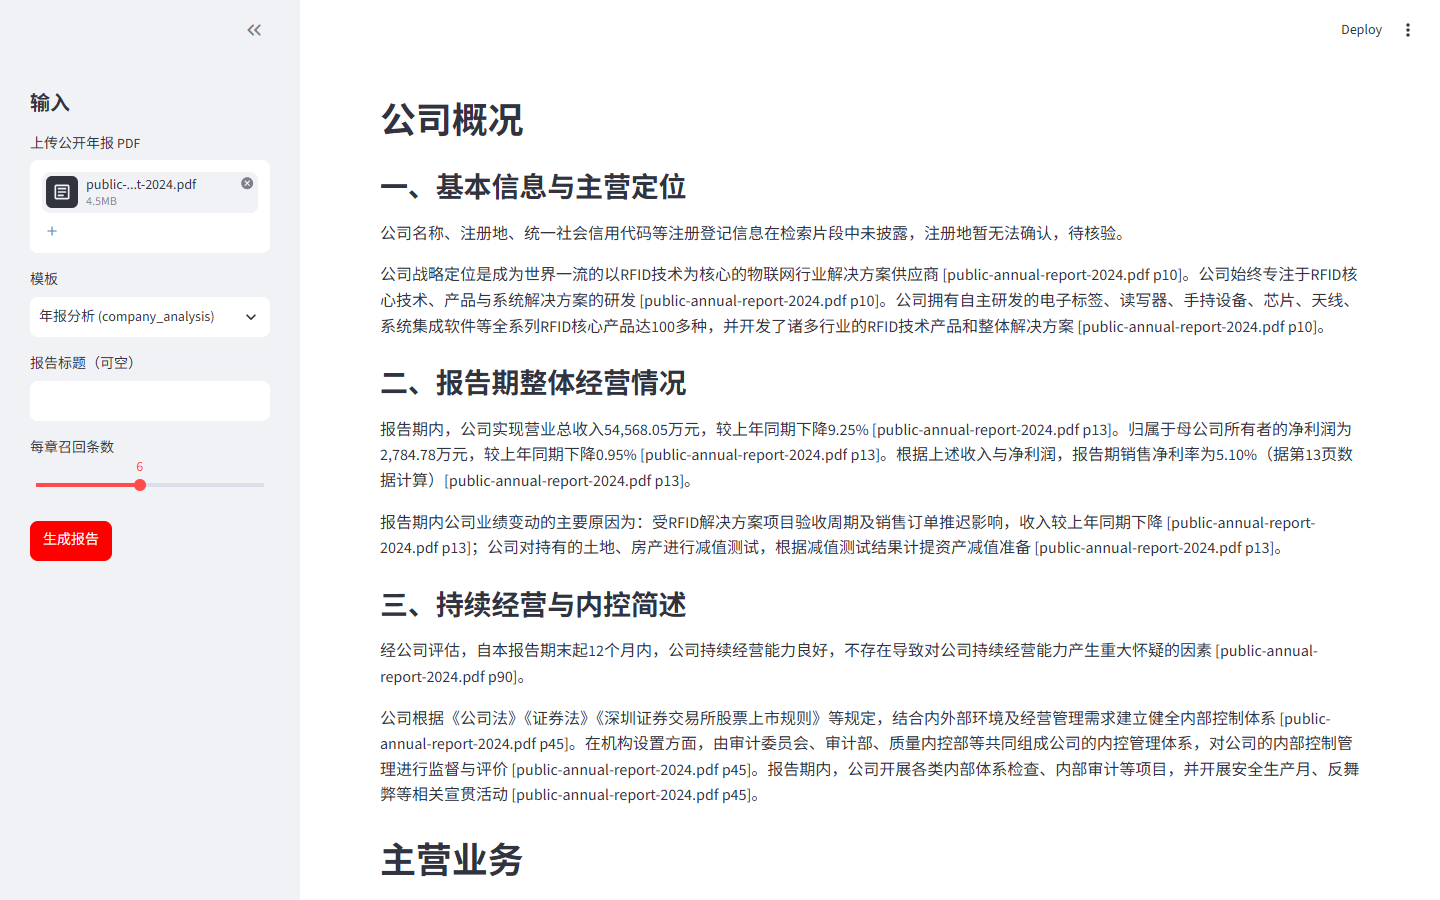
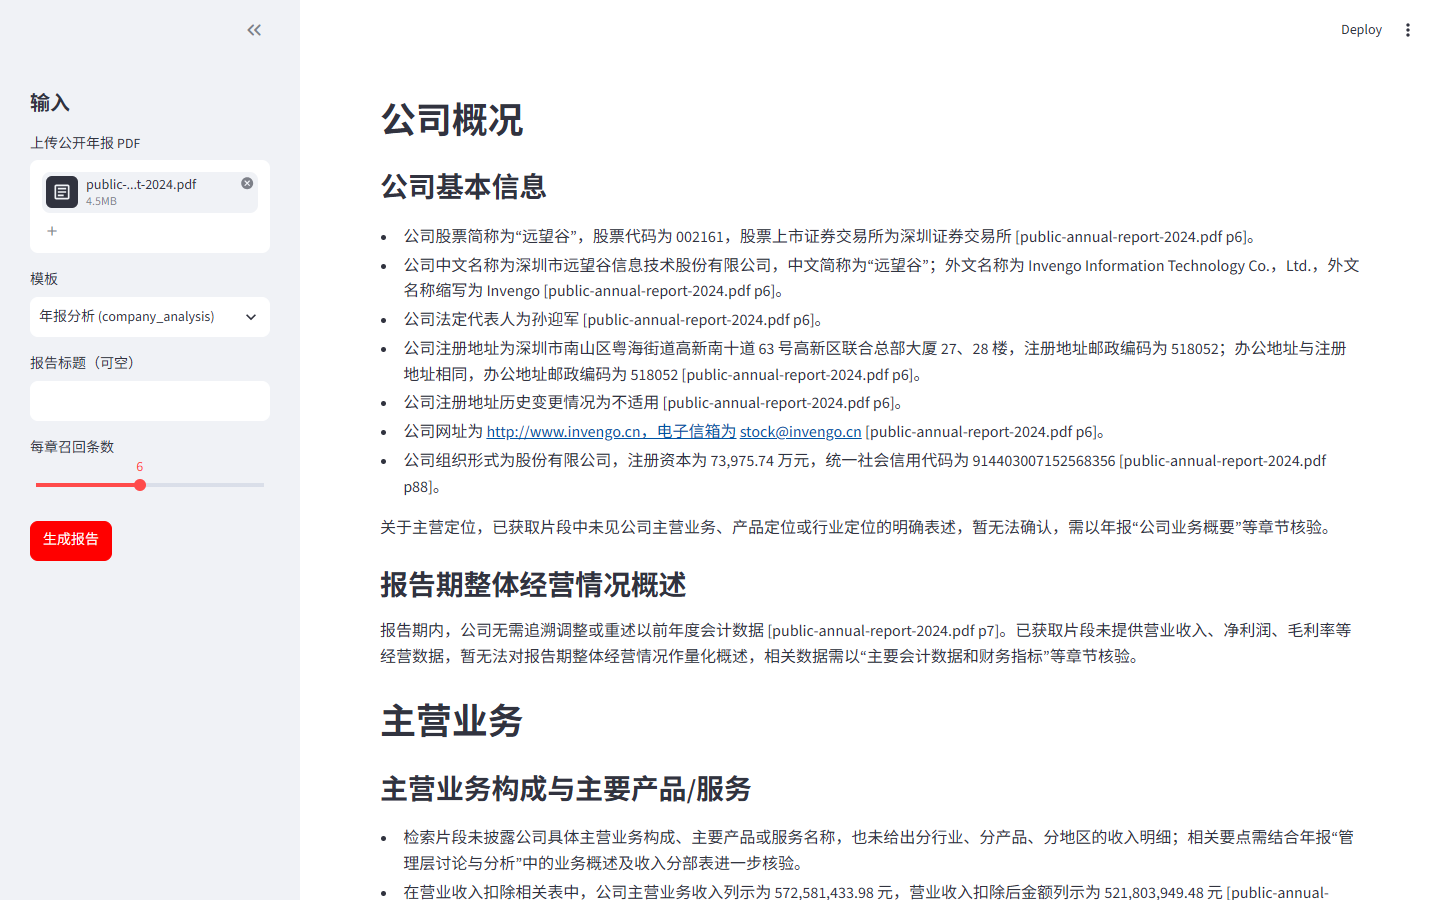
[content-fix] Windows 本机重跑与截图；公司概况含名称注册地；187 passed, 11 skipped

Changed region(s): [[0.25, 0.2489, 0.9375, 1.0], [0.375, 0.1867, 0.4688, 0.2178], [0.25, 0.1867, 0.3125, 0.2178]]

diff --git a/docs/devlog/2026-10-r9-content-fix-windows.md b/docs/devlog/2026-10-r9-content-fix-windows.md
@@ -1,0 +1,73 @@
+# 2026-10-r9 [content-fix] Windows 观察
+
+## 环境
+
+- 系统：原生 Windows 11（笔记本）
+- Python：3.12.10（仓库 `.venv`）
+- GPU：NVIDIA GeForce RTX 3050 Laptop GPU（嵌入 CUDA）
+- 样本：`data/samples/public-annual-report-2024.pdf`（公开年报，已 gitignore）
+- 代码基线：已合入 `30c7554` [content-fix]（模板 keywords/section_hints）+ `822d64f` [r10]；本提交补 **Windows 端到端重跑观察** 与截图核对，不重复改模板。
+
+## 决策
+
+1. 模板「公司概况」hints（公司信息 / 注册地址 / 股票简称）沿用已合入版本，本机不重写。
+2. 同一公开年报在本机 CLI 重跑，只记观察。
+3. 报告正文相对 r8 截图已变（公司概况现有名称/注册地），按规则重拍 `report-preview` / `report-progress`（不做示意截图；真实 Streamlit）。
+
+## 端到端观察（output/r9w）
+
+命令：
+
+```text
+python -m core.graph.run --pdf data/samples/public-annual-report-2024.pdf --out-dir output/r9w --summary-json output/r9w/run-summary.json --download-model
+```
+
+- chunks：1646
+- 耗时：parse 82.3s / index 95.8s / graph 163.6s / **total 342.0s**
+- docx：`output/r9w/年报分析-20261029-122253.docx`（不入库）
+- md：`output/r9w/年报分析-20261029-122253.md`
+- `pending_marks_total`：**2**（r8c 为 5；Linux r9 为 3）
+- `errors`：[]
+- 正文未出现 `calc_financials` / 「写作上下文」 / 「销售净利率」；财务章有「归母」相关表述。
+- `.env` 中 `RETRIEVER=milvus`，win32 工厂回落 memory（与 [v1-ready] 行为一致）。
+
+### 每章核验状态
+
+| 章 | status | rewrite | 【待核实】 | cited_pages | retrieved_pages | elapsed_s |
+| --- | --- | ---: | ---: | --- | --- | ---: |
+| 公司概况 | supported | 0 | 0 | 6, 7, 26, 88 | 6, 7, 26, 33, 87, 88 | 20.2 |
+| 主营业务 | supported | 0 | 0 | 23, 26, 64, 153, 154 | 9, 23, 26, 64, 153, 154 | 17.6 |
+| 财务表现 | supported | 0 | 0 | 7, 8, 68 | 7, 8, 67, 68, 69, 92 | 34.1 |
+| 风险因素 | supported | 0 | 0 | 2, 30, 31, 167 | 2, 27, 30, 31, 167 | 26.9 |
+| 结论 | supported | 1 | 2 | 23, 25, 29, 43 | 9, 23, 25, 29, 43 | 44.7 |
+
+### 【待核实】原句（2，均在结论）
+
+1. 「资产构成重大变动情况在检索片段中仅呈现标题…【待核实】」（p23）
+2. 「培训计划的具体实施成效…未在检索片段中披露【待核实】」（p43）
+
+### 公司概况是否出现公司名称 / 注册地
+
+- **有。** 中文名称「深圳市远望谷信息技术股份有限公司」、股票简称「远望谷」、注册地址「深圳市南山区粤海街道高新南十道 63 号…」，引用 **p6、p88**（retrieved 含 p6）。
+- r8c 当时写「检索片段中没有提供」工商信息；hints 生效后本机亦能写出。
+
+## 截图
+
+- 已重拍并入库：`docs/images/report-preview.png`（242800 B）、`report-progress.png`（120618 B）。
+- 命令：`python scripts/screenshots.py --skip-qa --pdf data/samples/public-annual-report-2024.pdf`
+- 时间戳（Asia/Shanghai）：2026-10-29 12:29:17 / 12:29:19。真实 Streamlit，无示意占位图。
+
+## 人工确认项
+
+- 作者通读 Word：`output/r9w/年报分析-20261029-122253.docx`
+- Word 打开图 `docs/images/word-open.png` 仍由作者本机拍（代理不生成）。
+
+## 测试（Windows 11 / Python 3.12.10）
+
+复用本轮 [pending-audit] 本机结果（代码未再改检索/写作逻辑）：
+
+```text
+187 passed, 11 skipped, 0 failed
+```
+
+（content-fix 提交前若再跑一遍，以 commit message 为准。）
